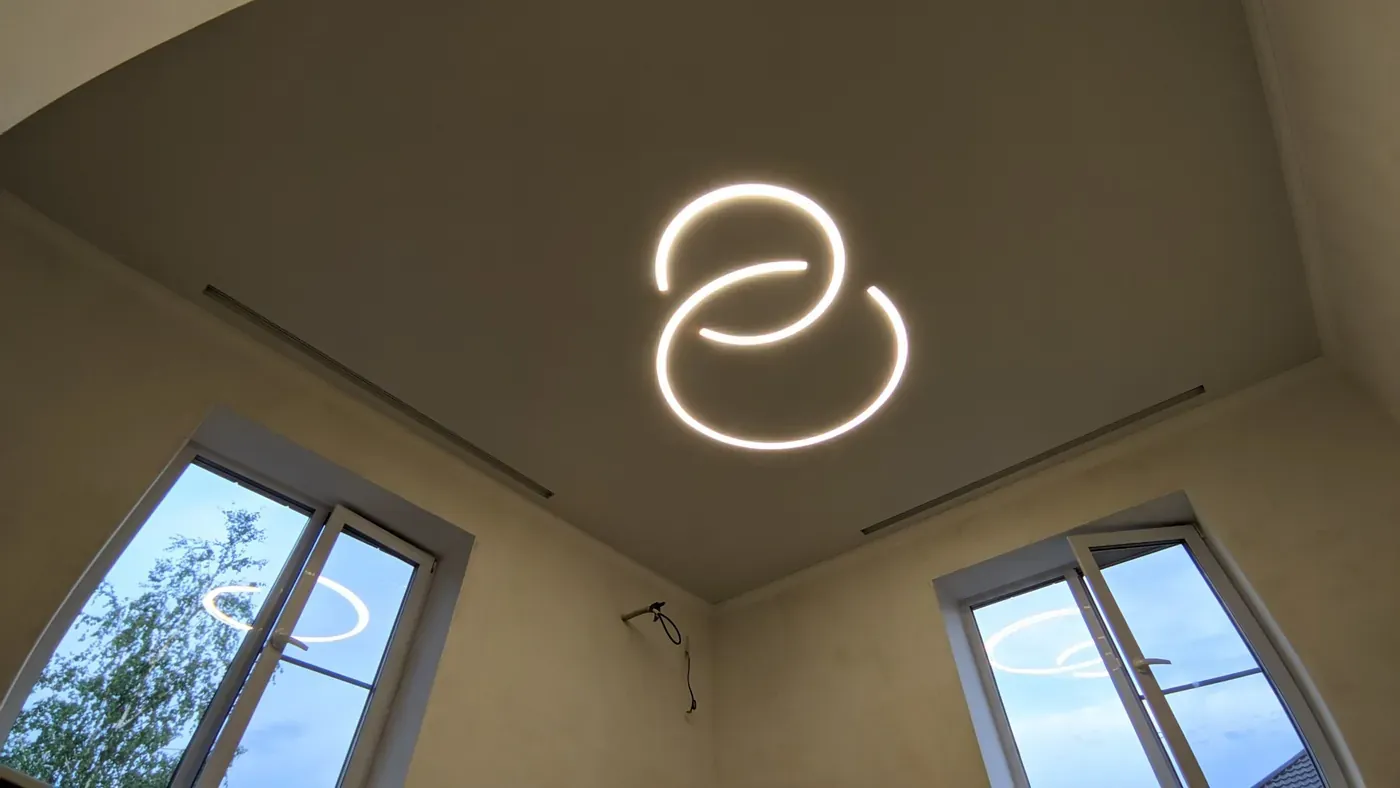
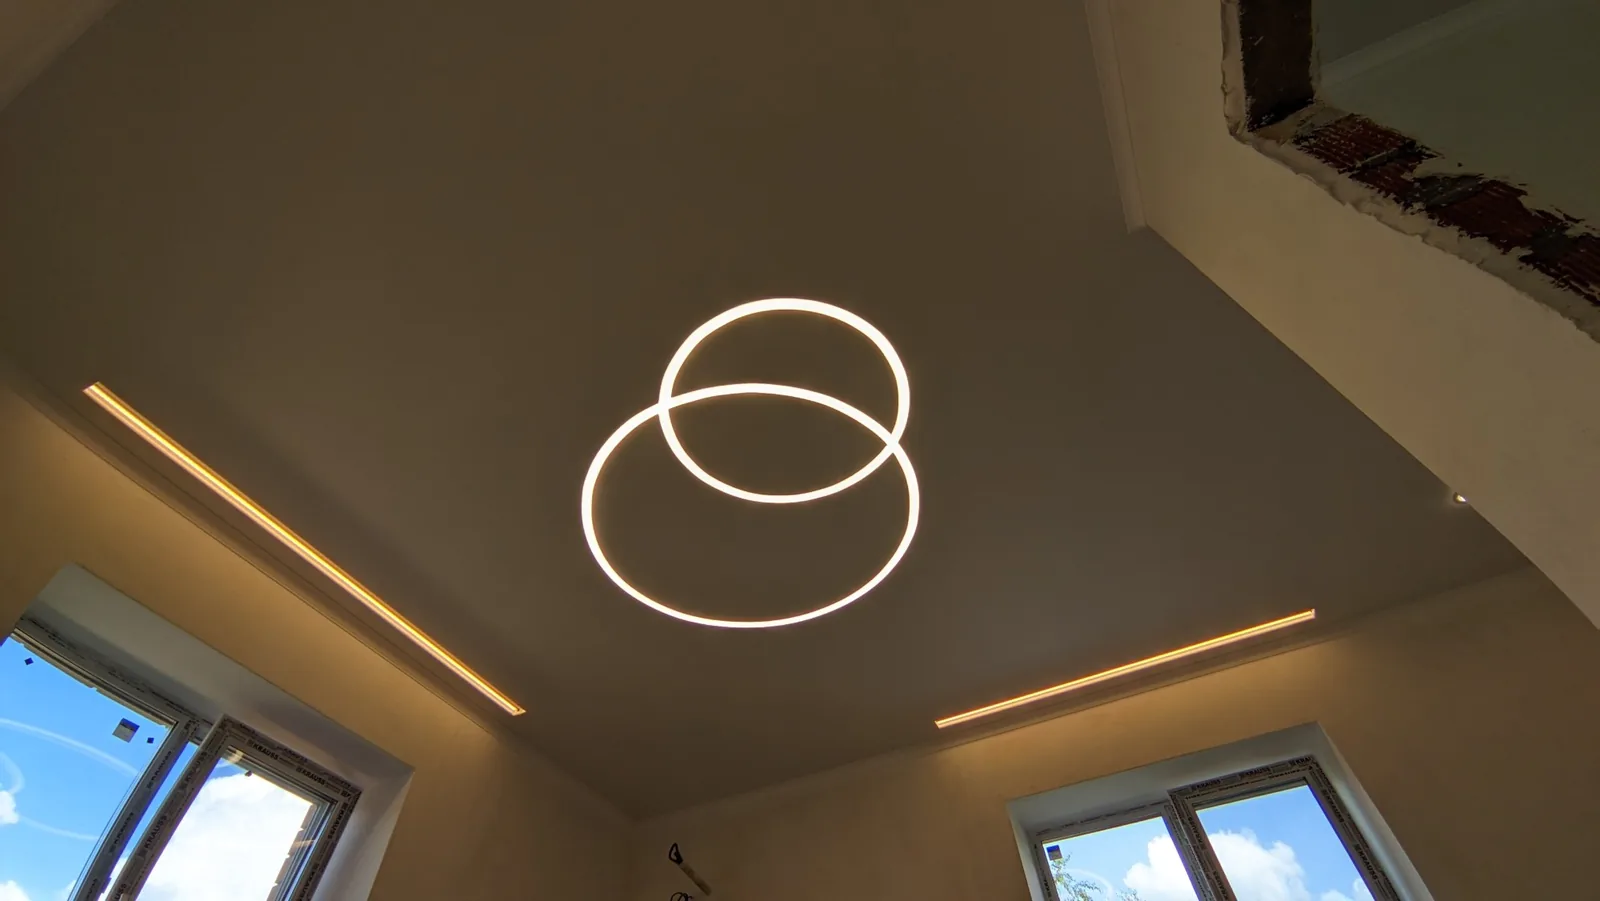
Пример с люстрами из линий: главное фото — самый резкий кадр

diff --git a/index.html b/index.html
@@ -136,7 +136,7 @@
   <link rel="preload" href="fonts/manrope-latin.woff2" as="font" type="font/woff2" crossorigin>
   <link rel="stylesheet" href="fonts/fonts.css?v=4">
   <link rel="stylesheet" href="js/vendor/lenis.css">
-  <link rel="stylesheet" href="css/style.css?v=137">
+  <link rel="stylesheet" href="css/style.css?v=138">
 </head>
 <body>
   <!-- ================= HEADER ================= -->
@@ -370,9 +370,9 @@
           </article>
           <article class="est est--feat">
             <div class="est-feat__media">
-              <button class="est-feat__photo est-feat__photo--main" data-lightbox="est-rings" data-full="img/ests/rings-full-1.webp" aria-label="Смотреть фото люстр из световых линий"><img decoding="async" src="img/ests/rings-main.webp" alt="Люстра из световых линий в виде двух дуг, по бокам скрытые ниши" loading="lazy" width="800" height="640"></button>
+              <button class="est-feat__photo est-feat__photo--main" data-lightbox="est-rings" data-full="img/ests/rings-full-1.webp" aria-label="Смотреть фото люстр из световых линий"><img decoding="async" src="img/ests/rings-main.webp" alt="Люстра из световых линий: два пересекающихся кольца, над окнами световые линии в скрытых нишах" loading="lazy" width="1000" height="800"></button>
               <button class="est-feat__photo" data-lightbox="est-rings" data-full="img/ests/rings-full-2.webp" aria-label="Фото 2"><img decoding="async" src="img/ests/rings-t1.webp" alt="Люстра из световых линий вечером" loading="lazy" width="400" height="320"></button>
-              <button class="est-feat__photo" data-lightbox="est-rings" data-full="img/ests/rings-full-3.webp" aria-label="Фото 3"><img decoding="async" src="img/ests/rings-t2.webp" alt="Световое кольцо и подсветка гардин в другой комнате" loading="lazy" width="400" height="320"></button>
+              <button class="est-feat__photo" data-lightbox="est-rings" data-full="img/ests/rings-full-3.webp" aria-label="Фото 3"><img decoding="async" src="img/ests/rings-t2.webp" alt="Кольца из световых линий и линия в скрытой нише в другой комнате" loading="lazy" width="400" height="320"></button>
             </div>
             <div class="est-feat__body">
               <div class="est__top"><span class="est__room">Частный дом</span><span class="est__area">Реальный объект</span></div>
